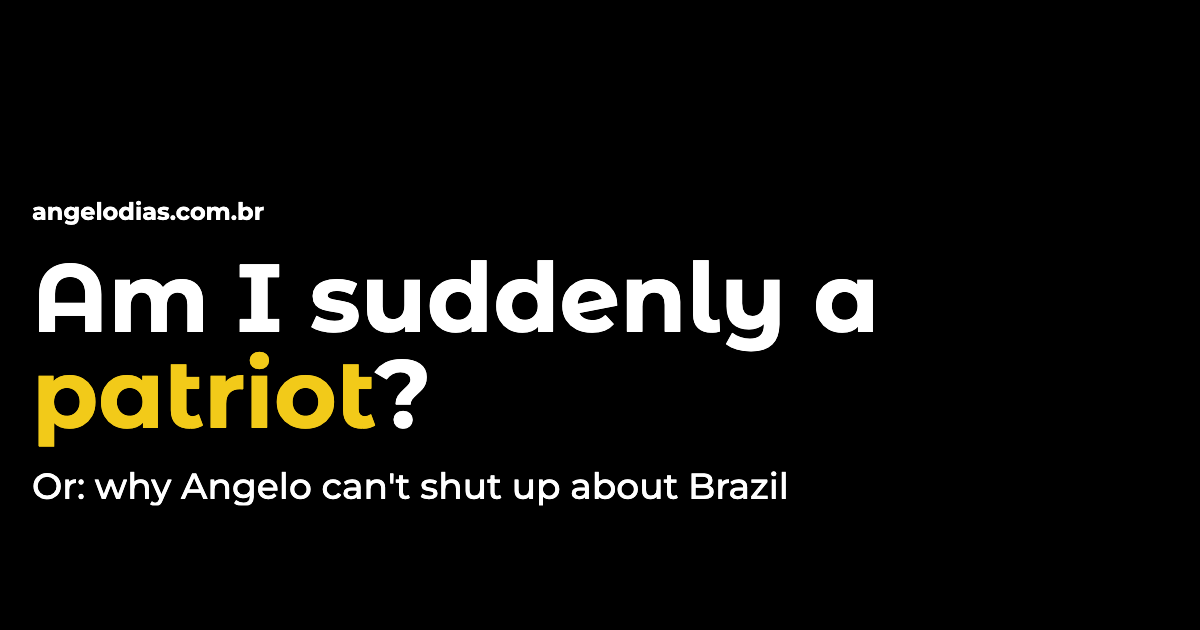
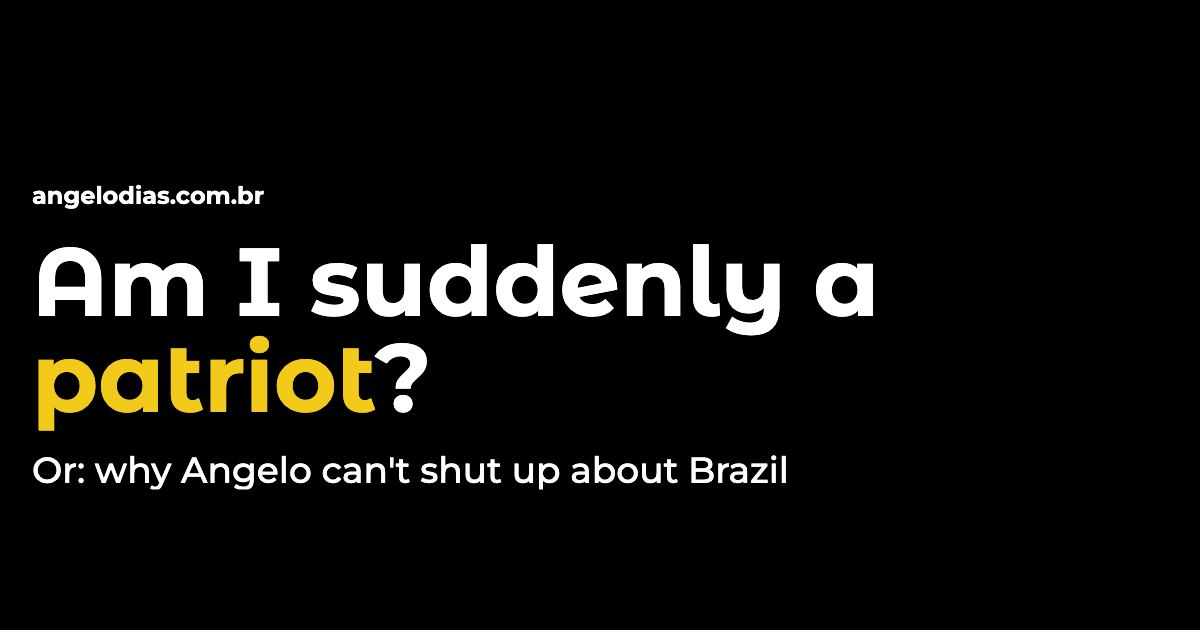
Fix social & sharing

Changed region(s): [[0.0308, 0.3921, 0.6783, 0.8143], [0.0308, 0.3016, 0.2158, 0.3619], [0.6783, 0.4222, 0.74, 0.5429]]

diff --git a/src/lib/images/generateSocialImage.tsx b/src/lib/images/generateSocialImage.tsx
@@ -21,19 +21,49 @@ export const generateSocialImage = async ({
     .join(`/public${publicDir}`)
 
   const socialImageFileName = `${fileName}.social.png`
-  const fullImagePathAndFilename = `${filePathInPublic}/${socialImageFileName}`
+  const instagramImageFileName = `${fileName}.instagram.png`
+  const socialImagePathAndFilename = `${filePathInPublic}/${socialImageFileName}`
+  const instagramImagePathAndFilename = `${filePathInPublic}/${instagramImageFileName}`
+
+  const socialImageExists = existsSync(socialImagePathAndFilename)
+  const instagramImageExists = existsSync(instagramImagePathAndFilename)
 
   mkdirSync(filePathInPublic, { recursive: true })
 
-  if (existsSync(fullImagePathAndFilename)) {
-    return fullImagePathAndFilename
+  if (socialImageExists && instagramImageExists) {
+    return socialImagePathAndFilename
   }
 
-  const finalHtml = generateHtml(metadata)
+  if (!socialImageExists) {
+    const viewPort = {
+      height: 630,
+      width: 1200,
+    }
 
-  await runPuppeteer(finalHtml, fullImagePathAndFilename).catch(err => {
-    throw new Error(err)
-  })
+    const finalHtml = generateHtml(metadata, viewPort)
 
-  return fullImagePathAndFilename
+    await runPuppeteer(finalHtml, socialImagePathAndFilename, viewPort).catch(
+      err => {
+        throw new Error(err)
+      }
+    )
+  }
+
+  if (!instagramImageExists) {
+    const viewPort = {
+      height: 1200,
+      width: 1200,
+    }
+
+    const finalHtml = generateHtml(metadata, viewPort)
+
+    await runPuppeteer(finalHtml, instagramImagePathAndFilename, {
+      height: 1200,
+      width: 1200,
+    }).catch(err => {
+      throw new Error(err)
+    })
+  }
+
+  return socialImagePathAndFilename
 }

diff --git a/src/lib/images/runPuppeteer.ts b/src/lib/images/runPuppeteer.ts
@@ -1,16 +1,18 @@
 import puppeteer from 'puppeteer'
 
-export const runPuppeteer = async (finalHtml: string, finalPath: string) => {
+export const runPuppeteer = async (
+  finalHtml: string,
+  finalPath: string,
+  viewport: puppeteer.Viewport
+) => {
   // eslint-disable-next-line no-console
-  console.log(`\nCreating social file:\n ${finalPath}\n`)
+  console.log(`\nCreating file using Puppeteer:\n ${finalPath}\n`)
+
   const browser = await puppeteer.launch({
     headless: true,
     args: ['--no-sandbox'],
     devtools: false,
-    defaultViewport: {
-      height: 630,
-      width: 1200,
-    },
+    defaultViewport: viewport,
   })
 
   try {
@@ -18,6 +20,7 @@ export const runPuppeteer = async (finalHtml: string, finalPath: string) => {
     await page.setContent(finalHtml)
     await page.waitForNetworkIdle()
     await page.screenshot({ path: finalPath })
+    await page.close()
   } catch (error) {
     console.error(error)
   } finally {

diff --git a/src/lib/images/generateHtml.ts b/src/lib/images/generateHtml.ts
@@ -2,6 +2,7 @@ import { Metadata } from '#types/types'
 import { readFileSync } from 'fs'
 import { marked } from 'marked'
 import { join } from 'path'
+import puppeteer from 'puppeteer'
 import { textColor } from 'src/helpers/colors'
 
 type Tag = 'h1' | 'h2'
@@ -16,7 +17,10 @@ const parseText = (string: string, tag: Tag) => {
   return marked.parse(string)
 }
 
-export const generateHtml = (metadata: Metadata) => {
+export const generateHtml = (
+  metadata: Metadata,
+  viewport: puppeteer.Viewport
+) => {
   const projectDir = process.cwd()
 
   const boilerplate = readFileSync(
@@ -29,6 +33,8 @@ export const generateHtml = (metadata: Metadata) => {
     ? parseText(metadata.description, 'h2')
     : undefined
   const finalHtml = boilerplate
+    .replace('$HEIGHT', viewport.height.toString())
+    .replace('$WIDTH', viewport.width.toString())
     .replace(
       '{{TITLE}}',
       `

diff --git a/src/lib/images/boilerplate.html b/src/lib/images/boilerplate.html
@@ -12,8 +12,12 @@
     body {
       background-color: black;
       color: white;
-      width: 1200px;
-      height: 630px;
+      width: $WIDTHpx;
+      height: $HEIGHTpx;
+      display: flex;
+      flex-direction: column;
+      align-items: flex-start;
+      justify-content: center;
     }
 
     h1 {
@@ -46,7 +50,6 @@
       flex-direction: column;
       align-items: flex-start;
       justify-content: center;
-      height: 100%;
       padding: 1rem 1.5rem;
     }
 
